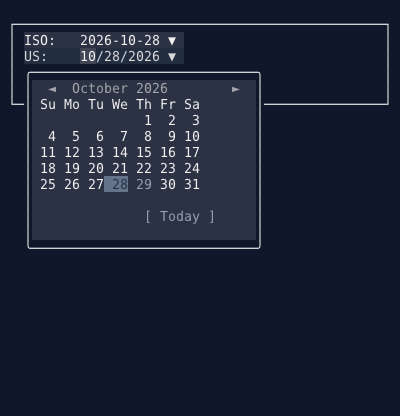
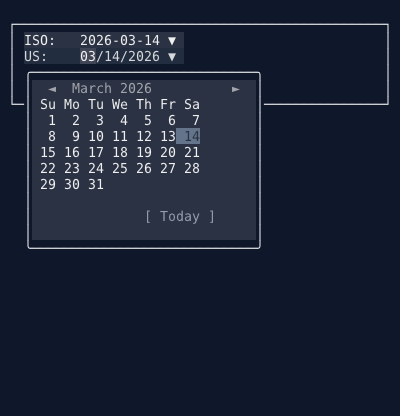
Stop the debugger shouting its own routine
Four papercuts in the tool, found by driving it for a day.

A client connecting was logged at Warning. One connects on every single
call, so after a short session the log buffer held nothing else and the
`logs` verb mostly showed the debugger watching itself. It buried a real
failure message in the gallery yesterday. Debug now.

`settled` was the only verb whose reply did not end in a newline, so the
next command's output began on the same line as its answer.

`seq` listed every decoded event. A typed sentence is one event per
character, which buries whatever the sequence was sent to find out. It
answers with the counts, and `--json` still has the listing, as it has
every field of every reply.

The date picker screenshot changed on its own whenever the month rolled
over: the calendar colours today's cell, and the shot opened the
calendar on a date in the current month. It uses a date in the past now,
whose month cannot contain today.

diff --git a/tools/cxdbg/src/cxdbg/Format/Output.cs b/tools/cxdbg/src/cxdbg/Format/Output.cs
@@ -100,6 +100,7 @@ internal static class Output
 			case "focus": return FocusReply(body, colour);
 			case "settled": return SettledReply(body, colour);
 			case "clock": return ClockReply(body, colour);
+			case "seq": return SeqReply(body, colour);
 
 			// Grouped, because these replies answer several questions at once
 			// and a flat column cannot say which number belongs to which.
@@ -793,6 +794,36 @@ internal static class Output
 			+ $"  [white]{Escaped(shown)}[/]";
 	}
 
+	/// <summary>What a sequence decoded to, counted rather than listed.</summary>
+	/// <remarks>
+	/// A typed sentence decodes to one event per character, and printing them
+	/// all buries whatever the sequence was sent to find out. The listing is
+	/// what you want while debugging the decoder itself, which is the rarer
+	/// case now that there is one decoder: <c>--json</c> has it, as it has
+	/// every field of every reply.
+	/// </remarks>
+	private static string SeqReply(JsonObject body, bool colour)
+	{
+		long bytes = body["bytes"]?.GetValue<long>() ?? 0;
+		var events = body["events"] as JsonArray;
+		int count = events?.Count ?? 0;
+
+		var sb = new StringBuilder();
+
+		sb.Append("[grey]bytes[/] [white]").Append(bytes).Append("[/]")
+		  .Append("  [grey]events[/] [white]").Append(count).Append("[/]");
+
+		// A sequence that decoded to nothing is worth saying out loud: it is
+		// the answer when something was malformed and silently dropped.
+		if (count == 0) sb.Append("  [yellow]nothing decoded[/]");
+
+		string text = sb.ToString();
+
+		return (colour
+			? Surface.Render(new Spectre.Console.Markup(text), true)
+			: Plain(text)) + "\n";
+	}
+
 	private static string SettledReply(JsonObject body, bool colour)
 	{
 		bool settled = body["settled"]?.GetValue<bool>() ?? false;
@@ -811,9 +842,11 @@ internal static class Output
 		// the caller is a pipe. Returning the string raw prints the tags.
 		string text = sb.ToString();
 
-		return colour
+		// Ending in a newline, as every other verb's reply does. Without it the
+		// next command's output starts on the same line as this one's.
+		return (colour
 			? Surface.Render(new Spectre.Console.Markup(text), true)
-			: Plain(text);
+			: Plain(text)) + "\n";
 	}
 
 	private static string Image(JsonObject body)

diff --git a/SharpConsoleUI/Diagnostics/Socket/DiagnosticsServer.cs b/SharpConsoleUI/Diagnostics/Socket/DiagnosticsServer.cs
@@ -98,7 +98,9 @@ internal sealed class DiagnosticsServer : IDisposable
 		// Warning, not Information: the default minimum level is Warning, and a
 		// record nobody sees by default is not a record. Someone attaching to a
 		// live application is worth one line at the level that shows.
-		_system.LogService.LogWarning("Diagnostics client connected", "Diagnostics");
+		// Debug, not Warning. A client connects on every single call, so at
+		// Warning the log fills with this and buries whatever went wrong.
+		_system.LogService.LogDebug("Diagnostics client connected", "Diagnostics");
 		try
 		{
 			using var stream = new NetworkStream(client, ownsSocket: false);

diff --git a/Examples/Gallery/Shots.cs b/Examples/Gallery/Shots.cs
@@ -376,7 +376,11 @@ internal static class Shots
 		new("DatePickerControl", 48, 24, () =>
 		{
 			var panel = Controls.Panel().Build();
-			var when = new DateTime(2026, 10, 28);
+
+			// A date in the past, and not this month. The calendar colours
+			// today's cell, so a date in the month being shown makes this
+			// screenshot change on its own every day the month rolls over.
+			var when = new DateTime(2026, 3, 14);
 
 			panel.AddControl(Controls.DatePicker("ISO:  ").WithFormat("yyyy-MM-dd").WithSelectedDate(when).Build());
 			panel.AddControl(Controls.DatePicker("US:   ").WithFormat("MM/dd/yyyy").WithSelectedDate(when).Build());
